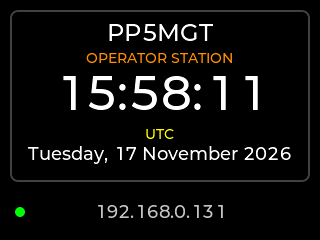
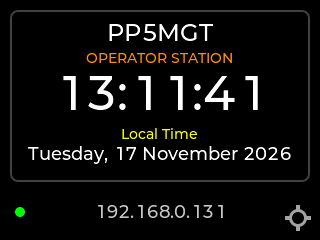
docs: refresh clock and settings screenshots

diff --git a/README.md b/README.md
@@ -22,9 +22,9 @@ Screens, in swipe order:
 - Weather
 - Forecast
 - Location
-- Settings
 
 - Swipe left or right to change screen (wraps around).
+- Settings opens from the gear icon at the bottom right of the Clock screen; BACK returns.
 - Lists scroll by dragging vertically.
 - Touch calibration is stored on the device.
 - The UI is available in English and Brazilian Portuguese (PT-BR). English is the default.
